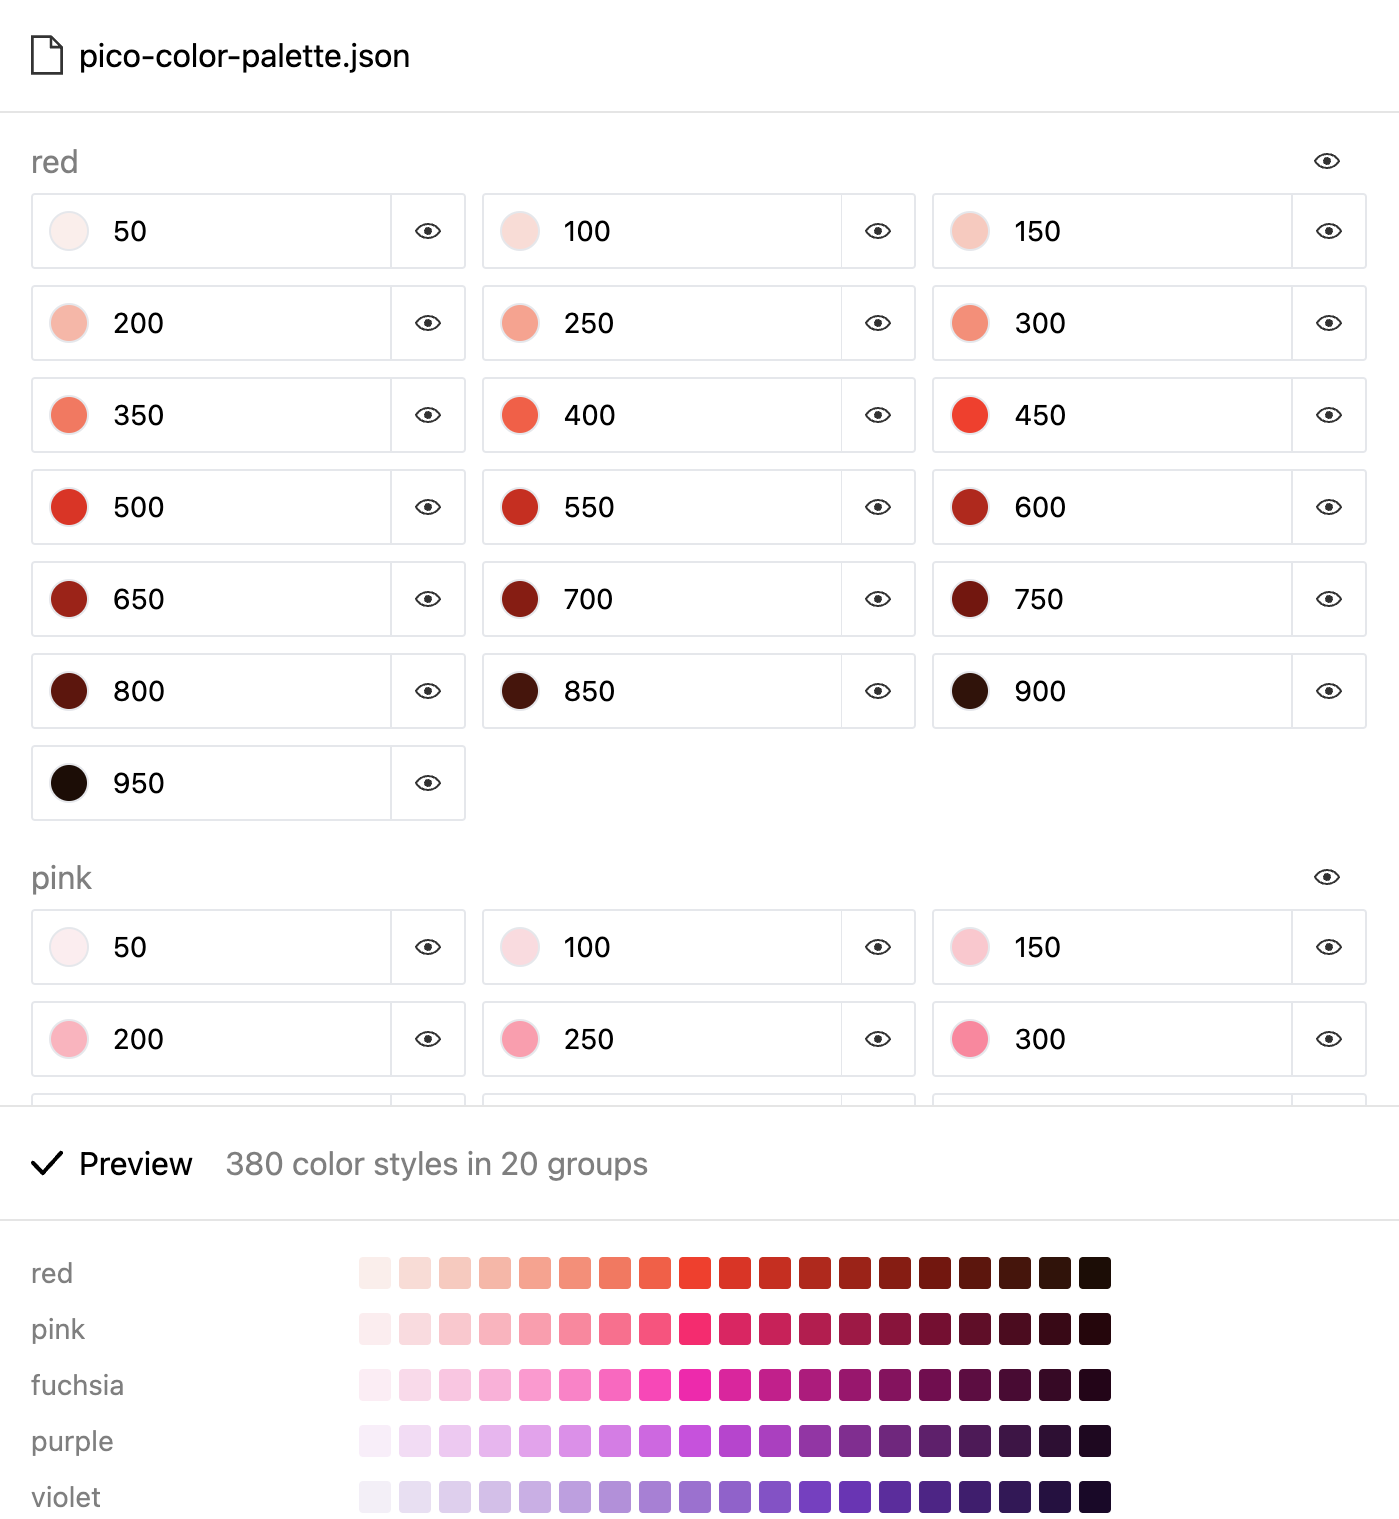
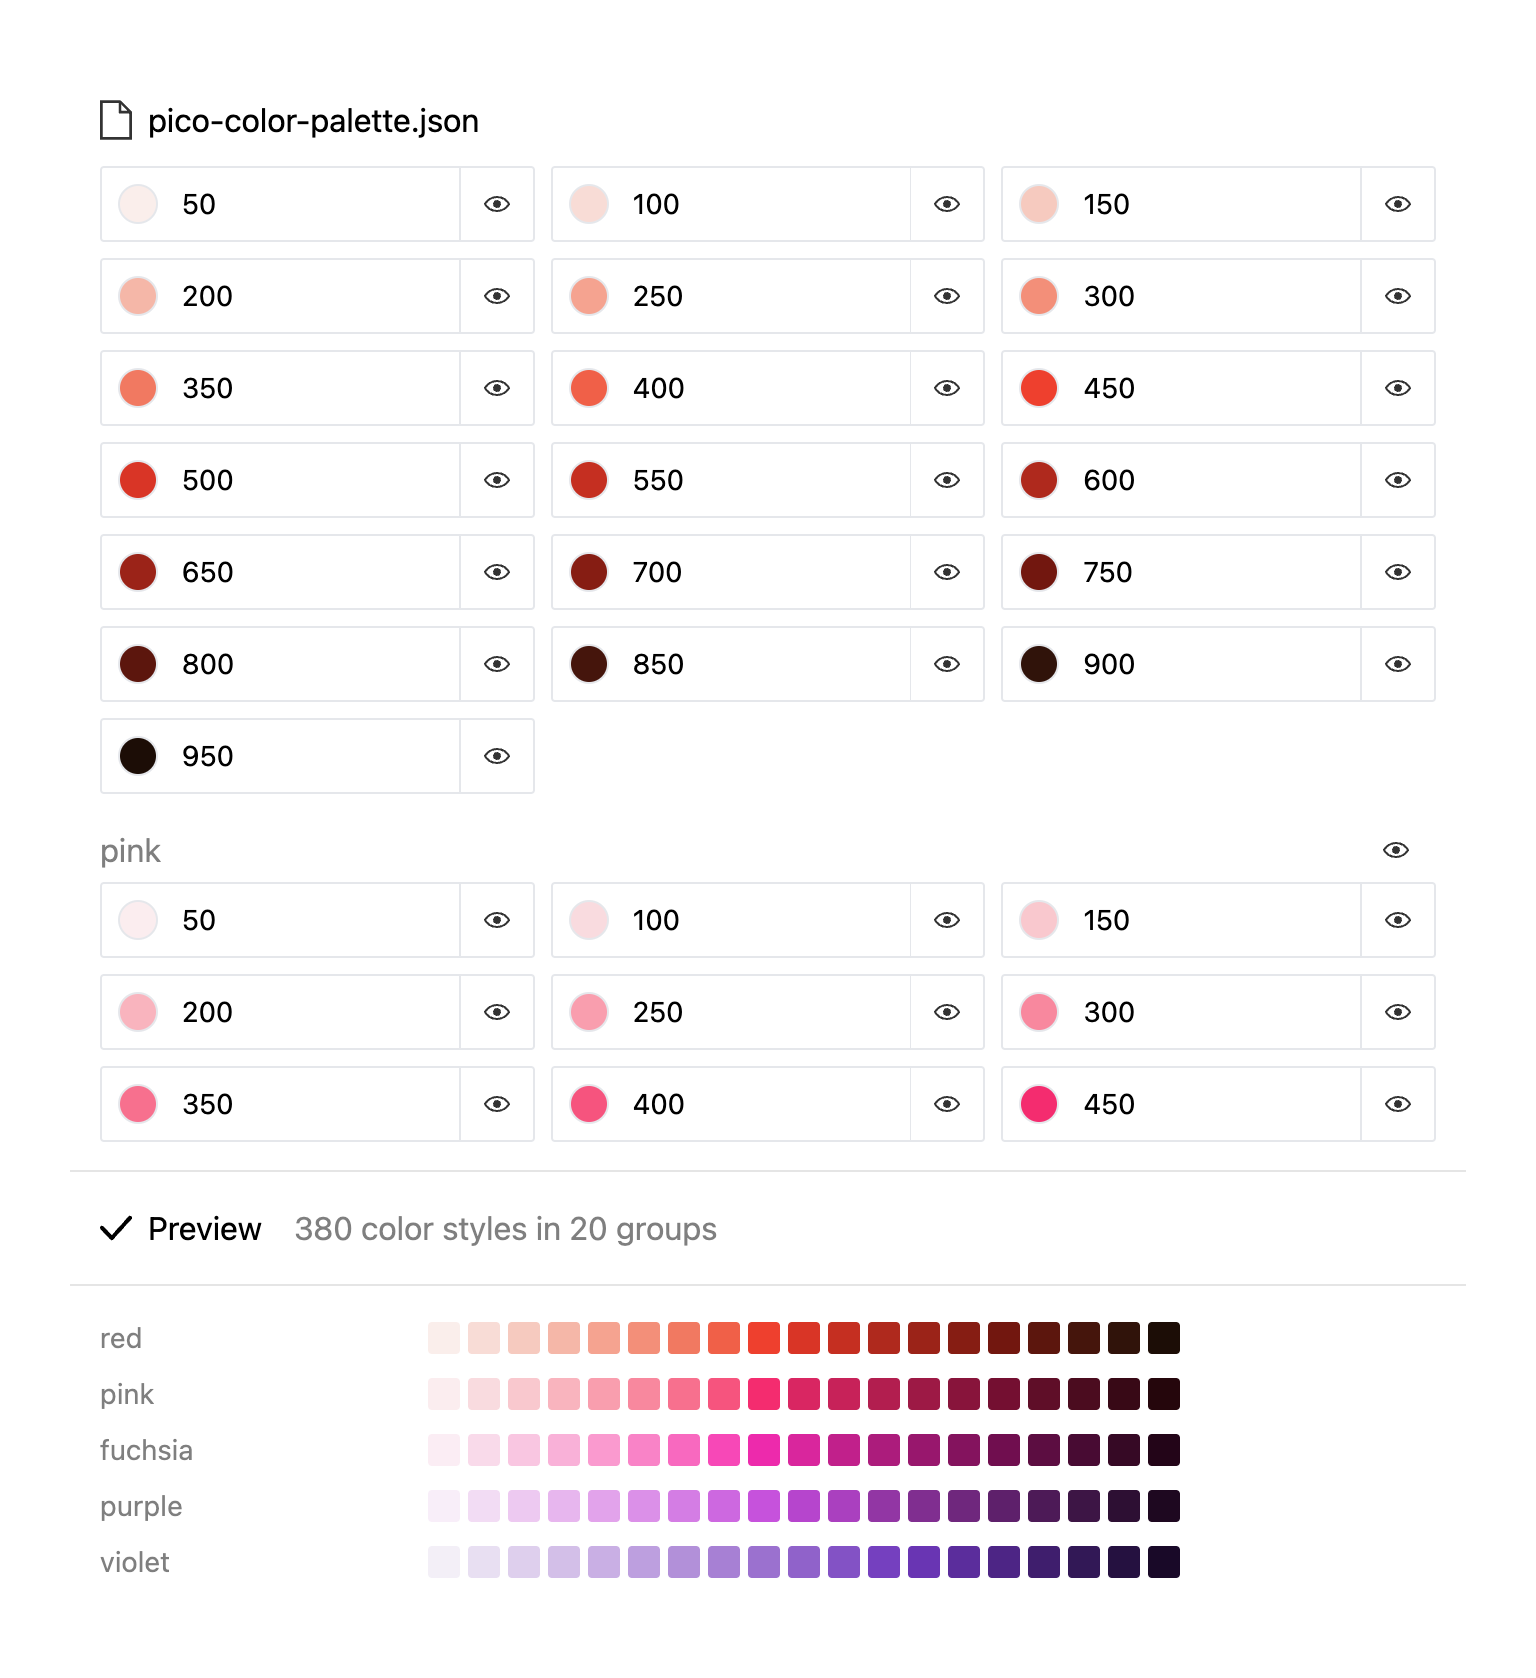
fix: documentation

diff --git a/app/components/docs/ColorModal.jsx b/app/components/docs/ColorModal.jsx
@@ -107,7 +107,7 @@ export default function ColorModal({ color, isOpen, onClose, setSelectedColor, .
 
   return (
     <dialog open={isOpen} className={`color`} onClick={handleClickOverlay} {...props}>
-      <article style={{ "--pico-glowing-color": `${mainHexValue}26`, maxeight: modalHeight }}>
+      <article style={{ "--pico-glowing-color": `${mainHexValue}26`, maxHeight: modalHeight }}>
         <header className={backgroundColorClassName}>
           <Link to="#" aria-label="Close" className="close" onClick={onClose}>
             <Close />

diff --git a/app/routes/docs.colors.jsx b/app/routes/docs.colors.jsx
@@ -244,7 +244,11 @@ export default function Colors() {
             to import all 380 Pico colors.
           </p>
           <p>
-            <img src={paletteImporterImage} alt="Figma plugin Palette Importer" />
+            <img
+              className="rounded-bordered"
+              src={paletteImporterImage}
+              alt="Figma plugin Palette Importer"
+            />
           </p>
           <p>
             Download the <Code display="inline">.json</Code> file with all the colors:

diff --git a/app/data/meta.js b/app/data/meta.js
@@ -12,7 +12,7 @@ export default function meta() {
     version: "2.0.0-alpha",
 
     // CDN values
-    cdnBaseUrl: "https://unpkg.com/@picocss/pico@2.*/",
+    cdnBaseUrl: "https://unpkg.com/@picocss/pico@2/",
 
     // Github values
     githubRepo: "https://github.com/picocss/pico",

diff --git a/app/styles/scss/docs.scss b/app/styles/scss/docs.scss
@@ -25,3 +25,4 @@
 @use "docs/components/color-families";
 @use "docs/components/dialog-color";
 @use "docs/components/heading-with-anchor";
+@use "docs/components/img-rounded-bordered";

diff --git a/app/styles/scss/docs/components/_img-rounded-bordered.scss b/app/styles/scss/docs/components/_img-rounded-bordered.scss
@@ -1,0 +1,7 @@
+@use "sass:map";
+@use "settings" as *;
+
+img.rounded-bordered {
+  border: 1px solid var(#{$✨}muted-border-color);
+  border-radius: var(#{$✨}border-radius);
+}
